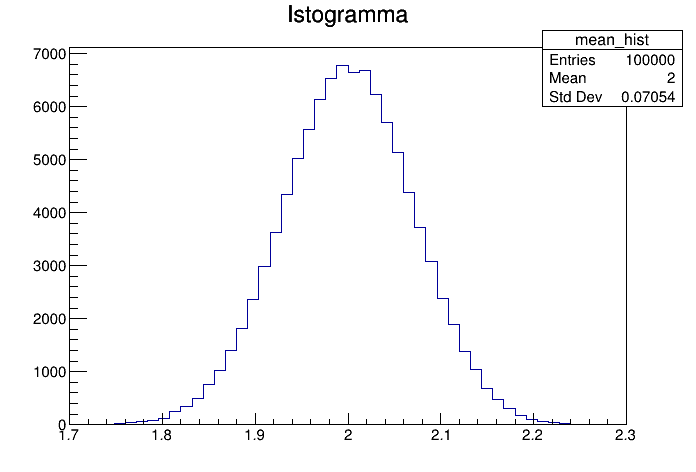
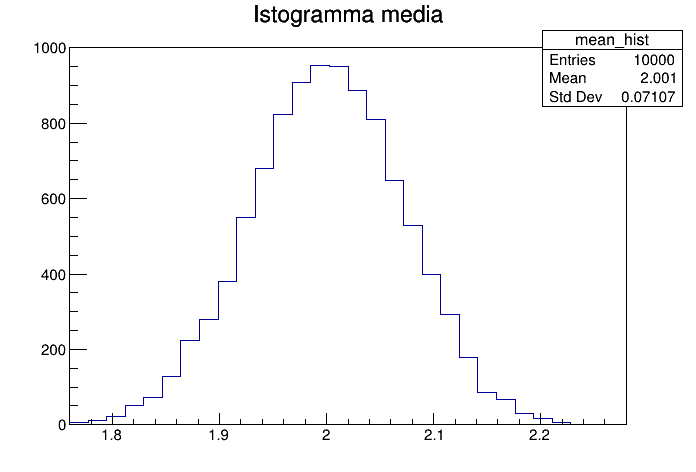
Exam definitive version

diff --git a/esame_17012022/main.cpp b/esame_17012022/main.cpp
@@ -15,38 +15,36 @@ int main () {
 
     //Parte 1 - Generazione punti secondo pdf triangolare
     int n_events = 1000;
-    double point_max {-100.} , point_min {100.};
     vector<double> points;
 
-    //Generiamo <n_events> punti distribuiti secondo una pdf triangolare
+    //Generiamo `n_events` punti distribuiti secondo una pdf triangolare
     for(int i = 0 ; i < n_events ; ++i) {
-        double tmp_point {triangle_tac(0. , 3.)};
-        points.push_back(tmp_point);
+        points.push_back(triangle_tac(0. , 3.));
     }
 
     //Riempiamo L'istogramma con i punti generati
-    TH1F hist ("hist" , "Istogramma" , 50 , 0. , 3.);
+    TH1F hist ("hist" , "Istogramma misure" , 13 , 0. , 3.);
     for (vector<double>::iterator it = points.begin() ; it != points.end() ; ++it) {
         hist.Fill(*it);
     }
 
     //Calcolo e stampa di media, deviazione standard e istogramma
-    cout << "\tmedia del campione:" << mean (points) << endl;
-    cout << "\tdeviazione standard del campione:" << std_dev_bessel (points , mean (points)) << endl;
+    cout << "\tmedia del campione:" << mean(points) << endl;
+    cout << "\tdeviazione standard del campione:" << std_dev_bessel(points , mean (points)) << endl;
 
     TCanvas c1;
     hist.Draw();
     c1.Print("plot.png");
 
     //Parte 2 - Toy experiments
-    int n_toy {100000} , toy_events {100};
+    int n_toy {10000} , toy_events {100};
     double mean_max{-100.} , mean_min{100.};
     double std_dev_max{-100.} , std_dev_min{100.};
     vector<double> toy_mean , toy_std_dev;
 
     points.clear();    
 
-    //Eseguiamo un numero <n_toy> di toy experiments,
+    //Eseguiamo un numero `n_toy` di toy experiments,
     //conservando i valori di media e varianza associati
     //ad ogni campione
     
@@ -71,8 +69,8 @@ int main () {
     }
     
     //Creiamo e stampiamo gli istogrammi relativi ai risultati dei toy experiments
-    TH1F mean_hist ("mean_hist" , "Istogramma" , 50 , mean_min , mean_max);
-    TH1F std_dev_hist ("std_dev_hist" , "Istogramma" , 50 , std_dev_min , std_dev_max);
+    TH1F mean_hist ("mean_hist" , "Istogramma media" , 30 , mean_min , mean_max);
+    TH1F std_dev_hist ("std_dev_hist" , "Istogramma deviazione standard" , 30 , std_dev_min , std_dev_max);
     for (int i = 0 ; i < n_toy ; ++i) {
         mean_hist.Fill(toy_mean[i]);
         std_dev_hist.Fill(toy_std_dev[i]);
